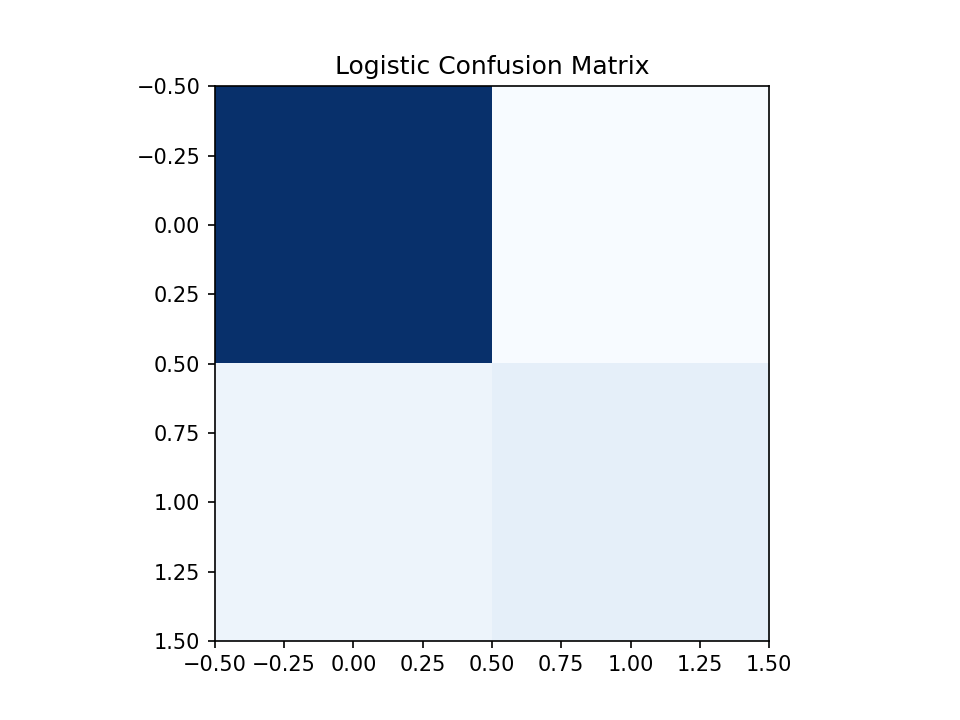
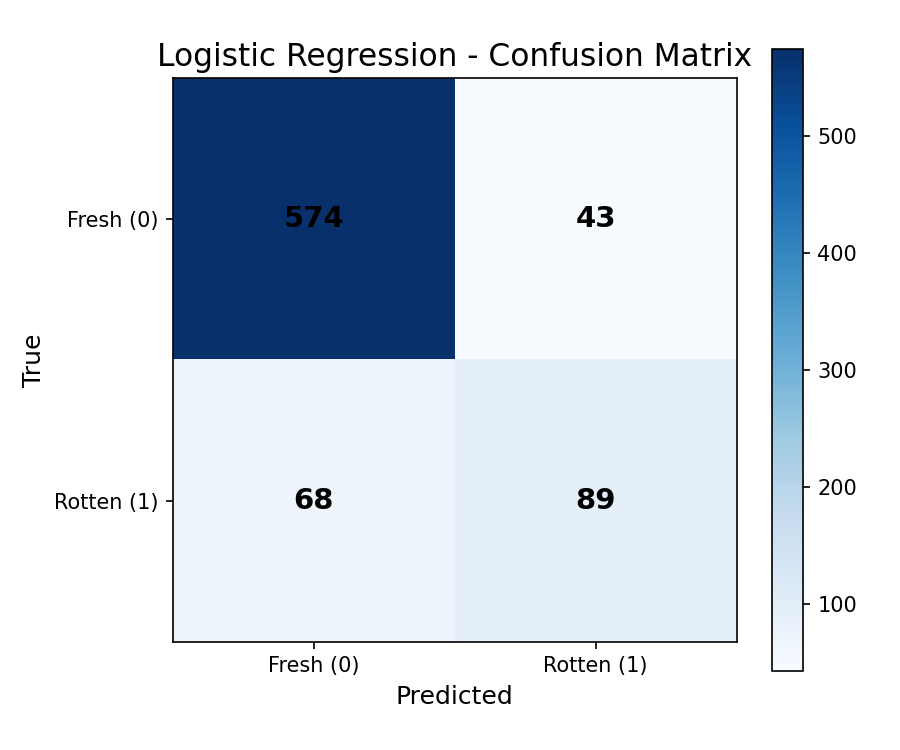
Add files via upload

diff --git a/machine_project/tometo/tomato_project.py b/machine_project/tometo/tomato_project.py
@@ -138,6 +138,50 @@ def load_and_extract(entries):
             continue
     return np.array(X), np.array(y)
 
+
+# ---------- CONFUSION MATRIX  ----------
+def plot_confusion_matrix(cm, labels, title, filename):
+    fig, ax = plt.subplots(figsize=(6, 5))
+    cax = ax.imshow(cm, cmap="Blues")
+
+    ax.set_title(title, fontsize=15)
+    ax.set_xticks(range(len(labels)))
+    ax.set_yticks(range(len(labels)))
+    ax.set_xticklabels(labels)
+    ax.set_yticklabels(labels)
+
+    # Write numbers
+    for i in range(cm.shape[0]):
+        for j in range(cm.shape[1]):
+            ax.text(j, i, str(cm[i, j]), ha="center", va="center",
+                    fontsize=14, color="black", fontweight="bold")
+
+    ax.set_xlabel("Predicted", fontsize=12)
+    ax.set_ylabel("True", fontsize=12)
+    fig.colorbar(cax)
+    fig.tight_layout()
+    fig.savefig(os.path.join(OUTPUT_DIR, filename), dpi=150)
+    plt.close()
+    
+
+# ---------- ROC CURVE  ----------
+def plot_roc_curve(y_test, scores, title, filename):
+    fpr, tpr, _ = roc_curve(y_test, scores)
+    rocA = auc(fpr, tpr)
+
+    fig, ax = plt.subplots(figsize=(6, 5))
+    ax.plot(fpr, tpr, label=f"AUC = {rocA:.3f}")
+    ax.plot([0,1],[0,1],"--", label="Random")
+    ax.set_xlabel("False Positive Rate")
+    ax.set_ylabel("True Positive Rate")
+    ax.set_title(title)
+    ax.legend()
+    fig.tight_layout()
+    fig.savefig(os.path.join(OUTPUT_DIR, filename), dpi=150)
+    plt.close()
+
+
+
 # ---------- PLOT HELPERS ----------
 def save_plot(fig, name):
     fig.savefig(os.path.join(OUTPUT_DIR, name), dpi=150)
@@ -274,18 +318,22 @@ def main():
 
     # Confusion Matrix
     cm = confusion_matrix(y_test, y_pred)
-    fig, ax = plt.subplots()
-    ax.imshow(cm, cmap="Blues")
-    ax.set_title("Logistic Confusion Matrix")
-    save_plot(fig, "confusion_logistic.png")
+    plot_confusion_matrix(
+    cm,
+    labels=["Fresh (0)", "Rotten (1)"],
+    title="Logistic Regression - Confusion Matrix",
+    filename="confusion_logistic.png"
+)
+
 
     # ROC Curve
-    fig, ax = plt.subplots()
-    fpr, tpr, _ = roc_curve(y_test, y_proba)
-    ax.plot(fpr, tpr)
-    ax.plot([0,1],[0,1],"--")
-    ax.set_title("ROC - Logistic Regression")
-    save_plot(fig, "roc_logistic.png")
+    plot_roc_curve(
+    y_test,
+    y_proba,
+    title="ROC Curve - Logistic Regression",
+    filename="roc_logistic.png"
+)
+
 
     # Loss Curve for Logistic Regression 
     plot_loss_curve(test_losses_lr, "Loss Curve - Logistic Regression", "loss_curve_logistic.png")
@@ -312,10 +360,13 @@ def main():
 
     # KMeans Confusion
     cm_k = confusion_matrix(y_test, km_pred)
-    fig, ax = plt.subplots()
-    ax.imshow(cm_k, cmap="Purples")
-    ax.set_title("KMeans Confusion Matrix")
-    save_plot(fig, "confusion_kmeans.png")
+    plot_confusion_matrix(
+    cm_k,
+    labels=["Fresh (0)", "Rotten (1)"],
+    title="KMeans - Confusion Matrix",
+    filename="confusion_kmeans.png"
+)
+
 
     # KMeans ROC
     centers = km.cluster_centers_
@@ -324,11 +375,13 @@ def main():
     km_scores = -(d1)
 
     fpr, tpr, _ = roc_curve(y_test, km_scores)
-    fig, ax = plt.subplots()
-    ax.plot(fpr, tpr)
-    ax.plot([0,1],[0,1],"--")
-    ax.set_title("ROC - KMeans")
-    save_plot(fig, "roc_kmeans.png")
+    plot_roc_curve(
+    y_test,
+    km_scores,
+    title="ROC Curve - KMeans",
+    filename="roc_kmeans.png"
+)
+
     
     # Loss curve for KMeans (using different k values) - TEST DATA ONLY
     ks_loss = list(range(1, 7))
@@ -359,3 +412,6 @@ def main():
 
 if __name__ == "__main__":
     main()
+
+
+
